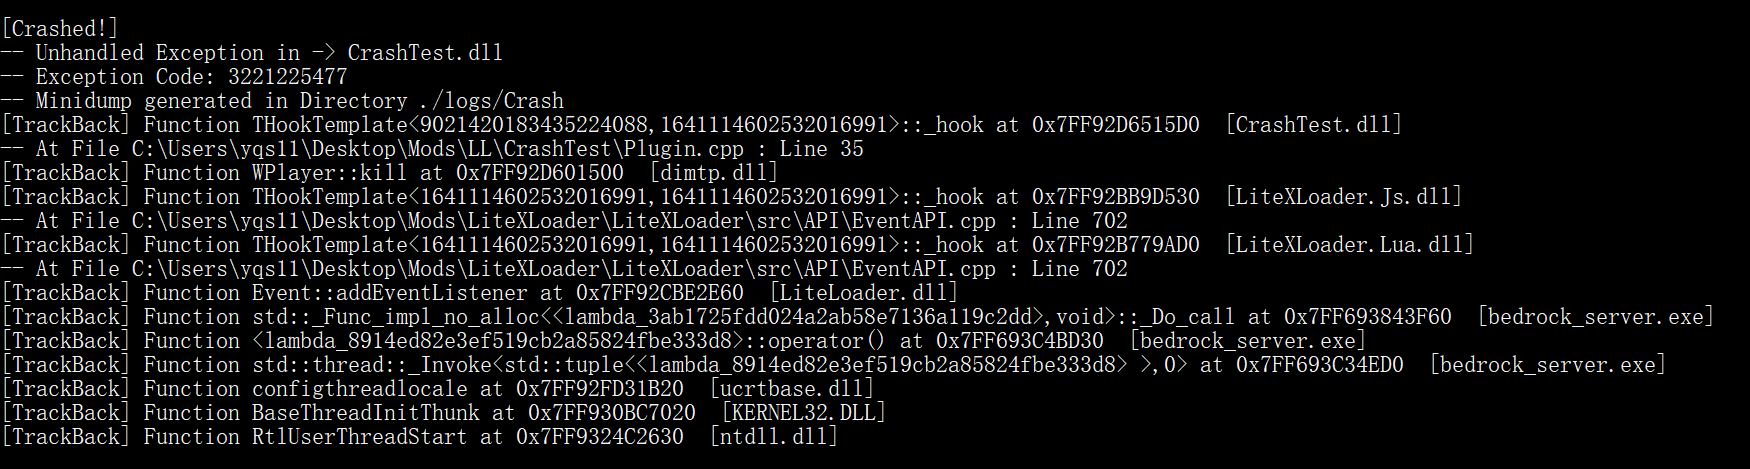
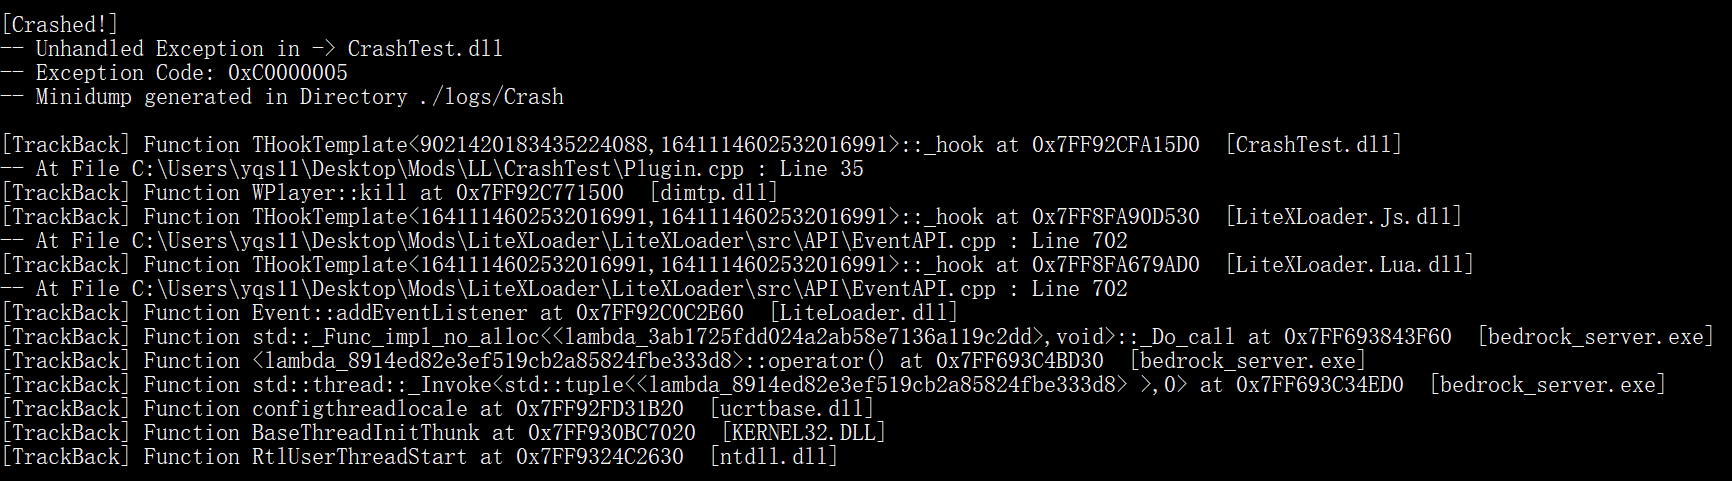
update image

Changed region(s): [[0.0, 0.0299, 0.9977, 0.9851]]

diff --git a/CrashLogger_Daemon/Logger.cpp b/CrashLogger_Daemon/Logger.cpp
@@ -126,13 +126,14 @@ void LogCrash(PEXCEPTION_POINTERS e, HANDLE hPro, HANDLE hThr, DWORD dProId, DWO
 	printf("\n");
 	log("[Crashed!]\n");
 	log("-- Unhandled Exception in -> %ls\n", MapModuleFromAddr(hProcess, e->ExceptionRecord->ExceptionAddress).c_str());
-	log("-- Exception Code: %u\n", e->ExceptionRecord->ExceptionCode);
+	log("-- Exception Code: 0x%X\n", e->ExceptionRecord->ExceptionCode);
 	if(e->ExceptionRecord->ExceptionCode == CRT_EXCEPTION_CODE)
 		log("-- C++ STL Exception detected!\n")
 
 	CoreDump(e);
 	CloseHandle(hDumpFile);
 
+	log("\n");
 	TrackBack(e);
 	if (fLog != NULL && fLog != INVALID_HANDLE_VALUE)
 		fclose(fLog);
